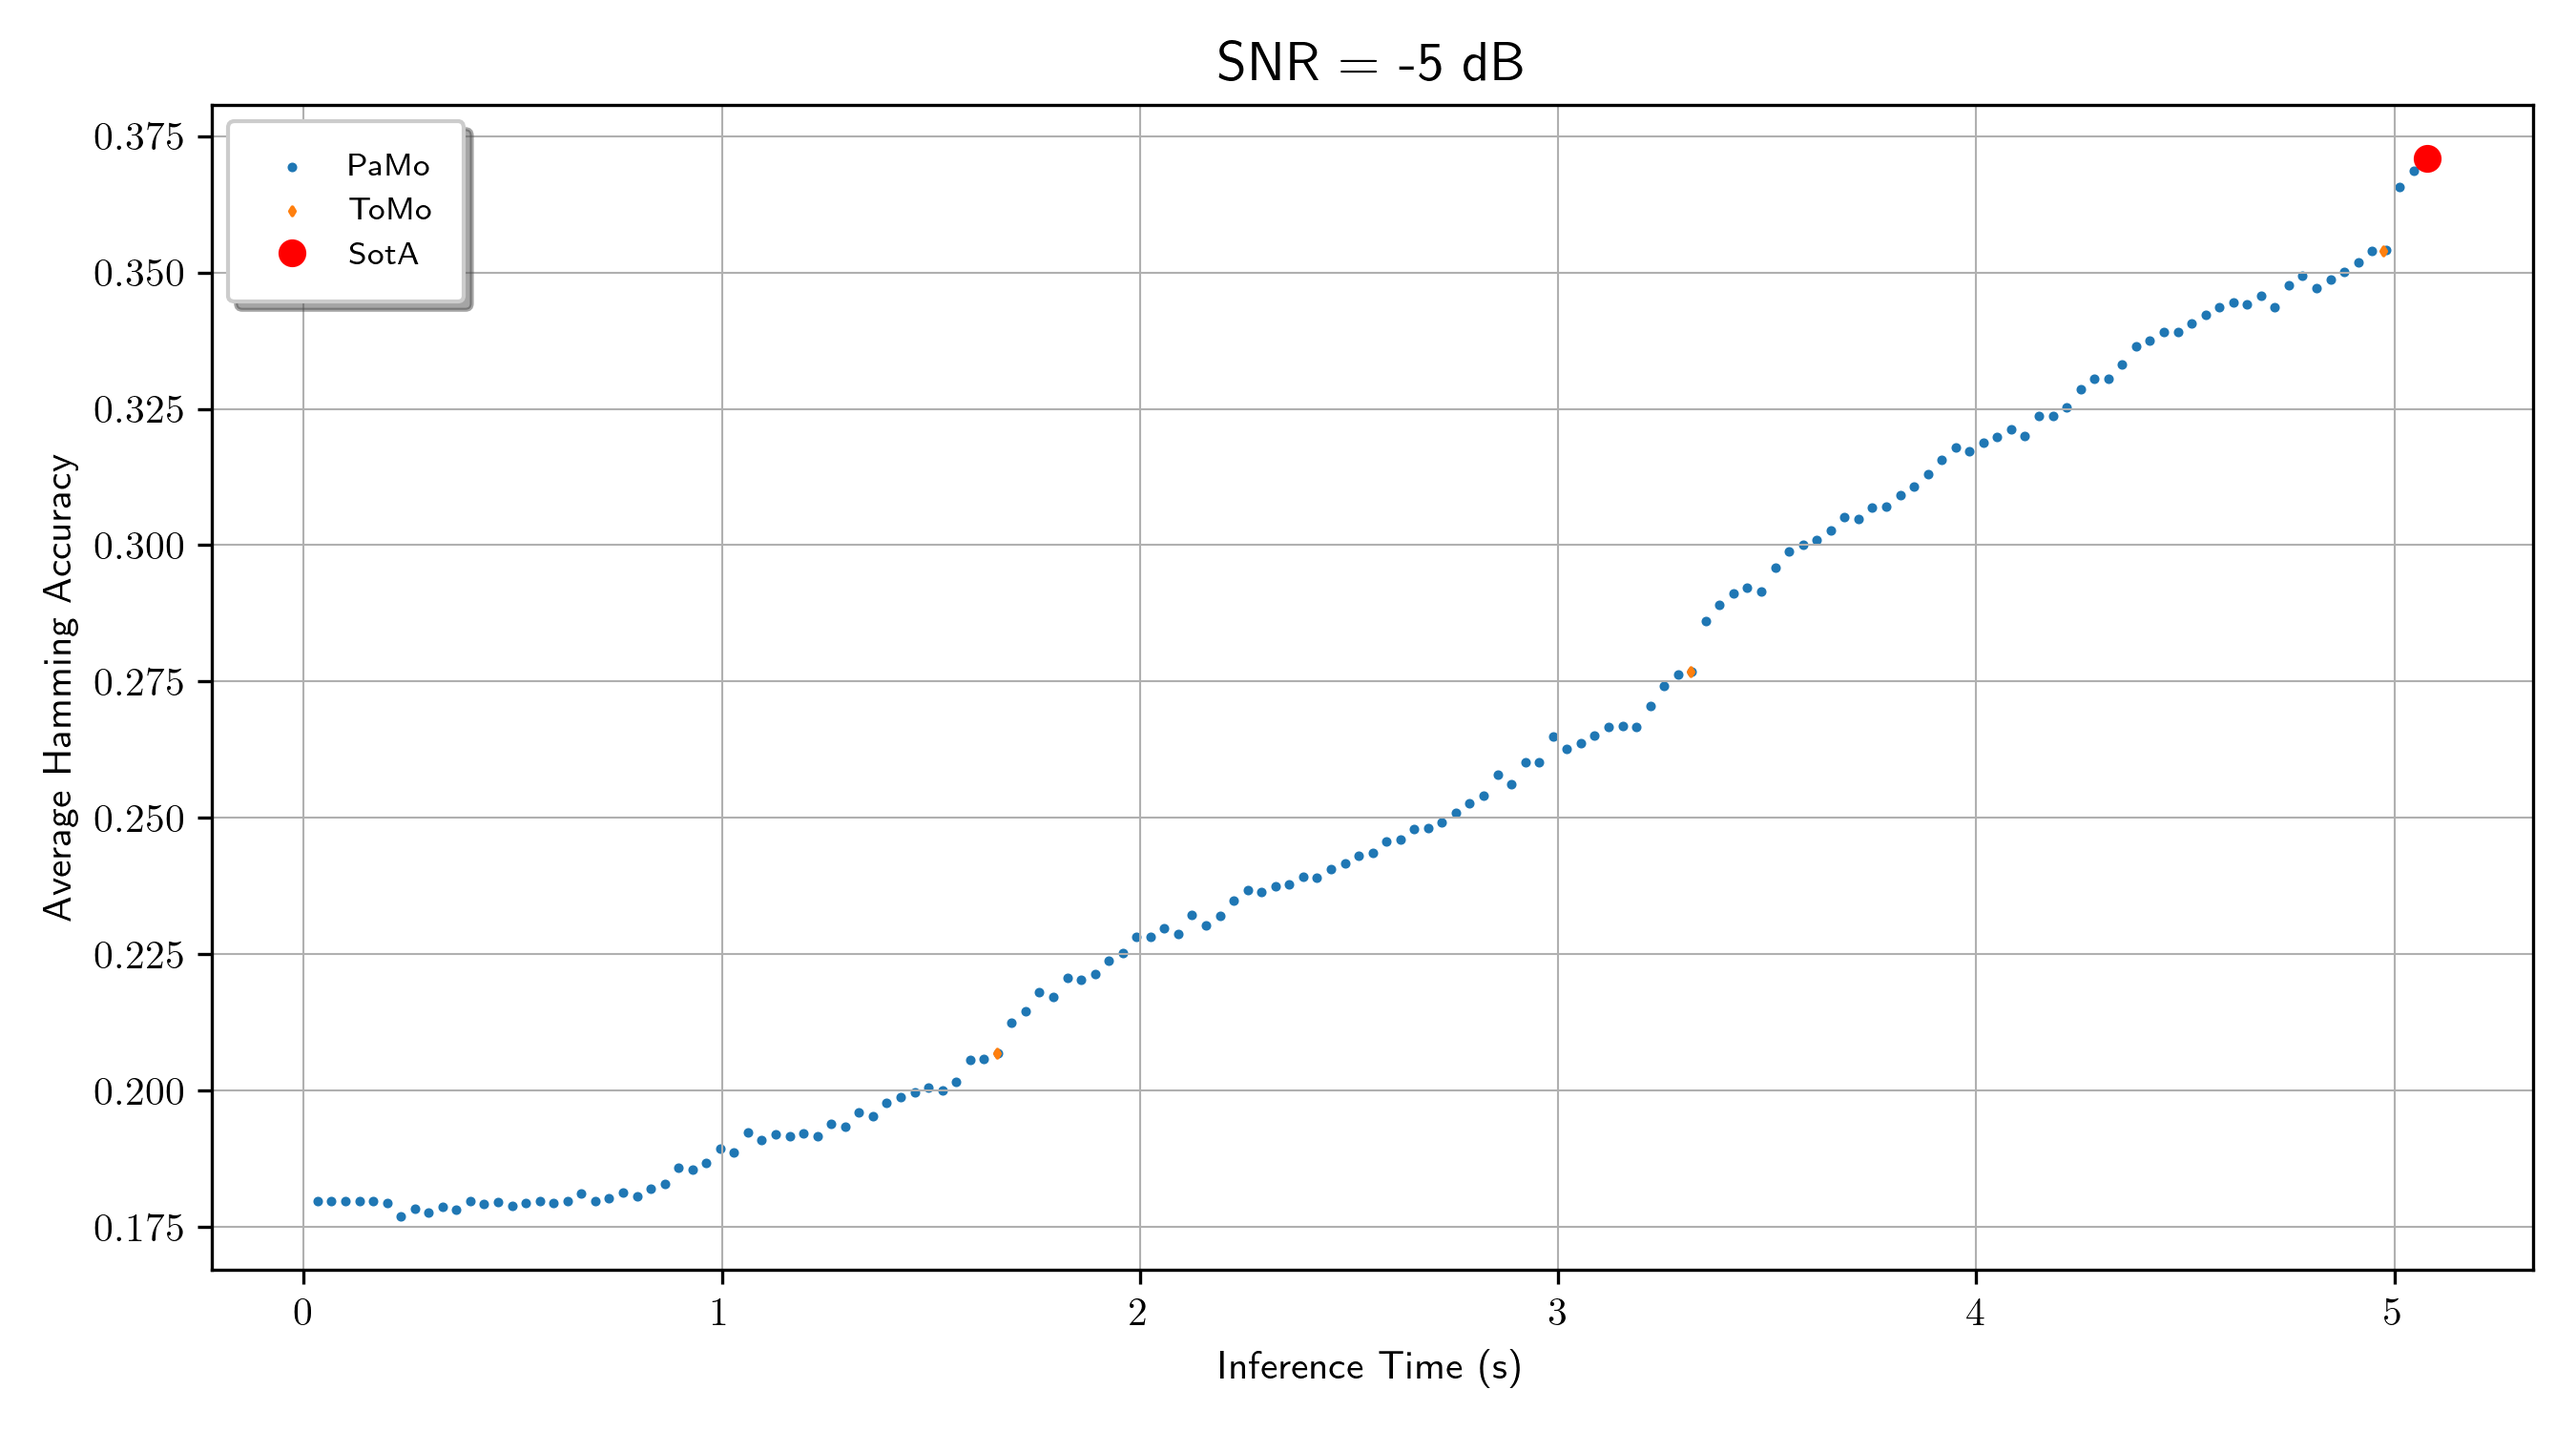
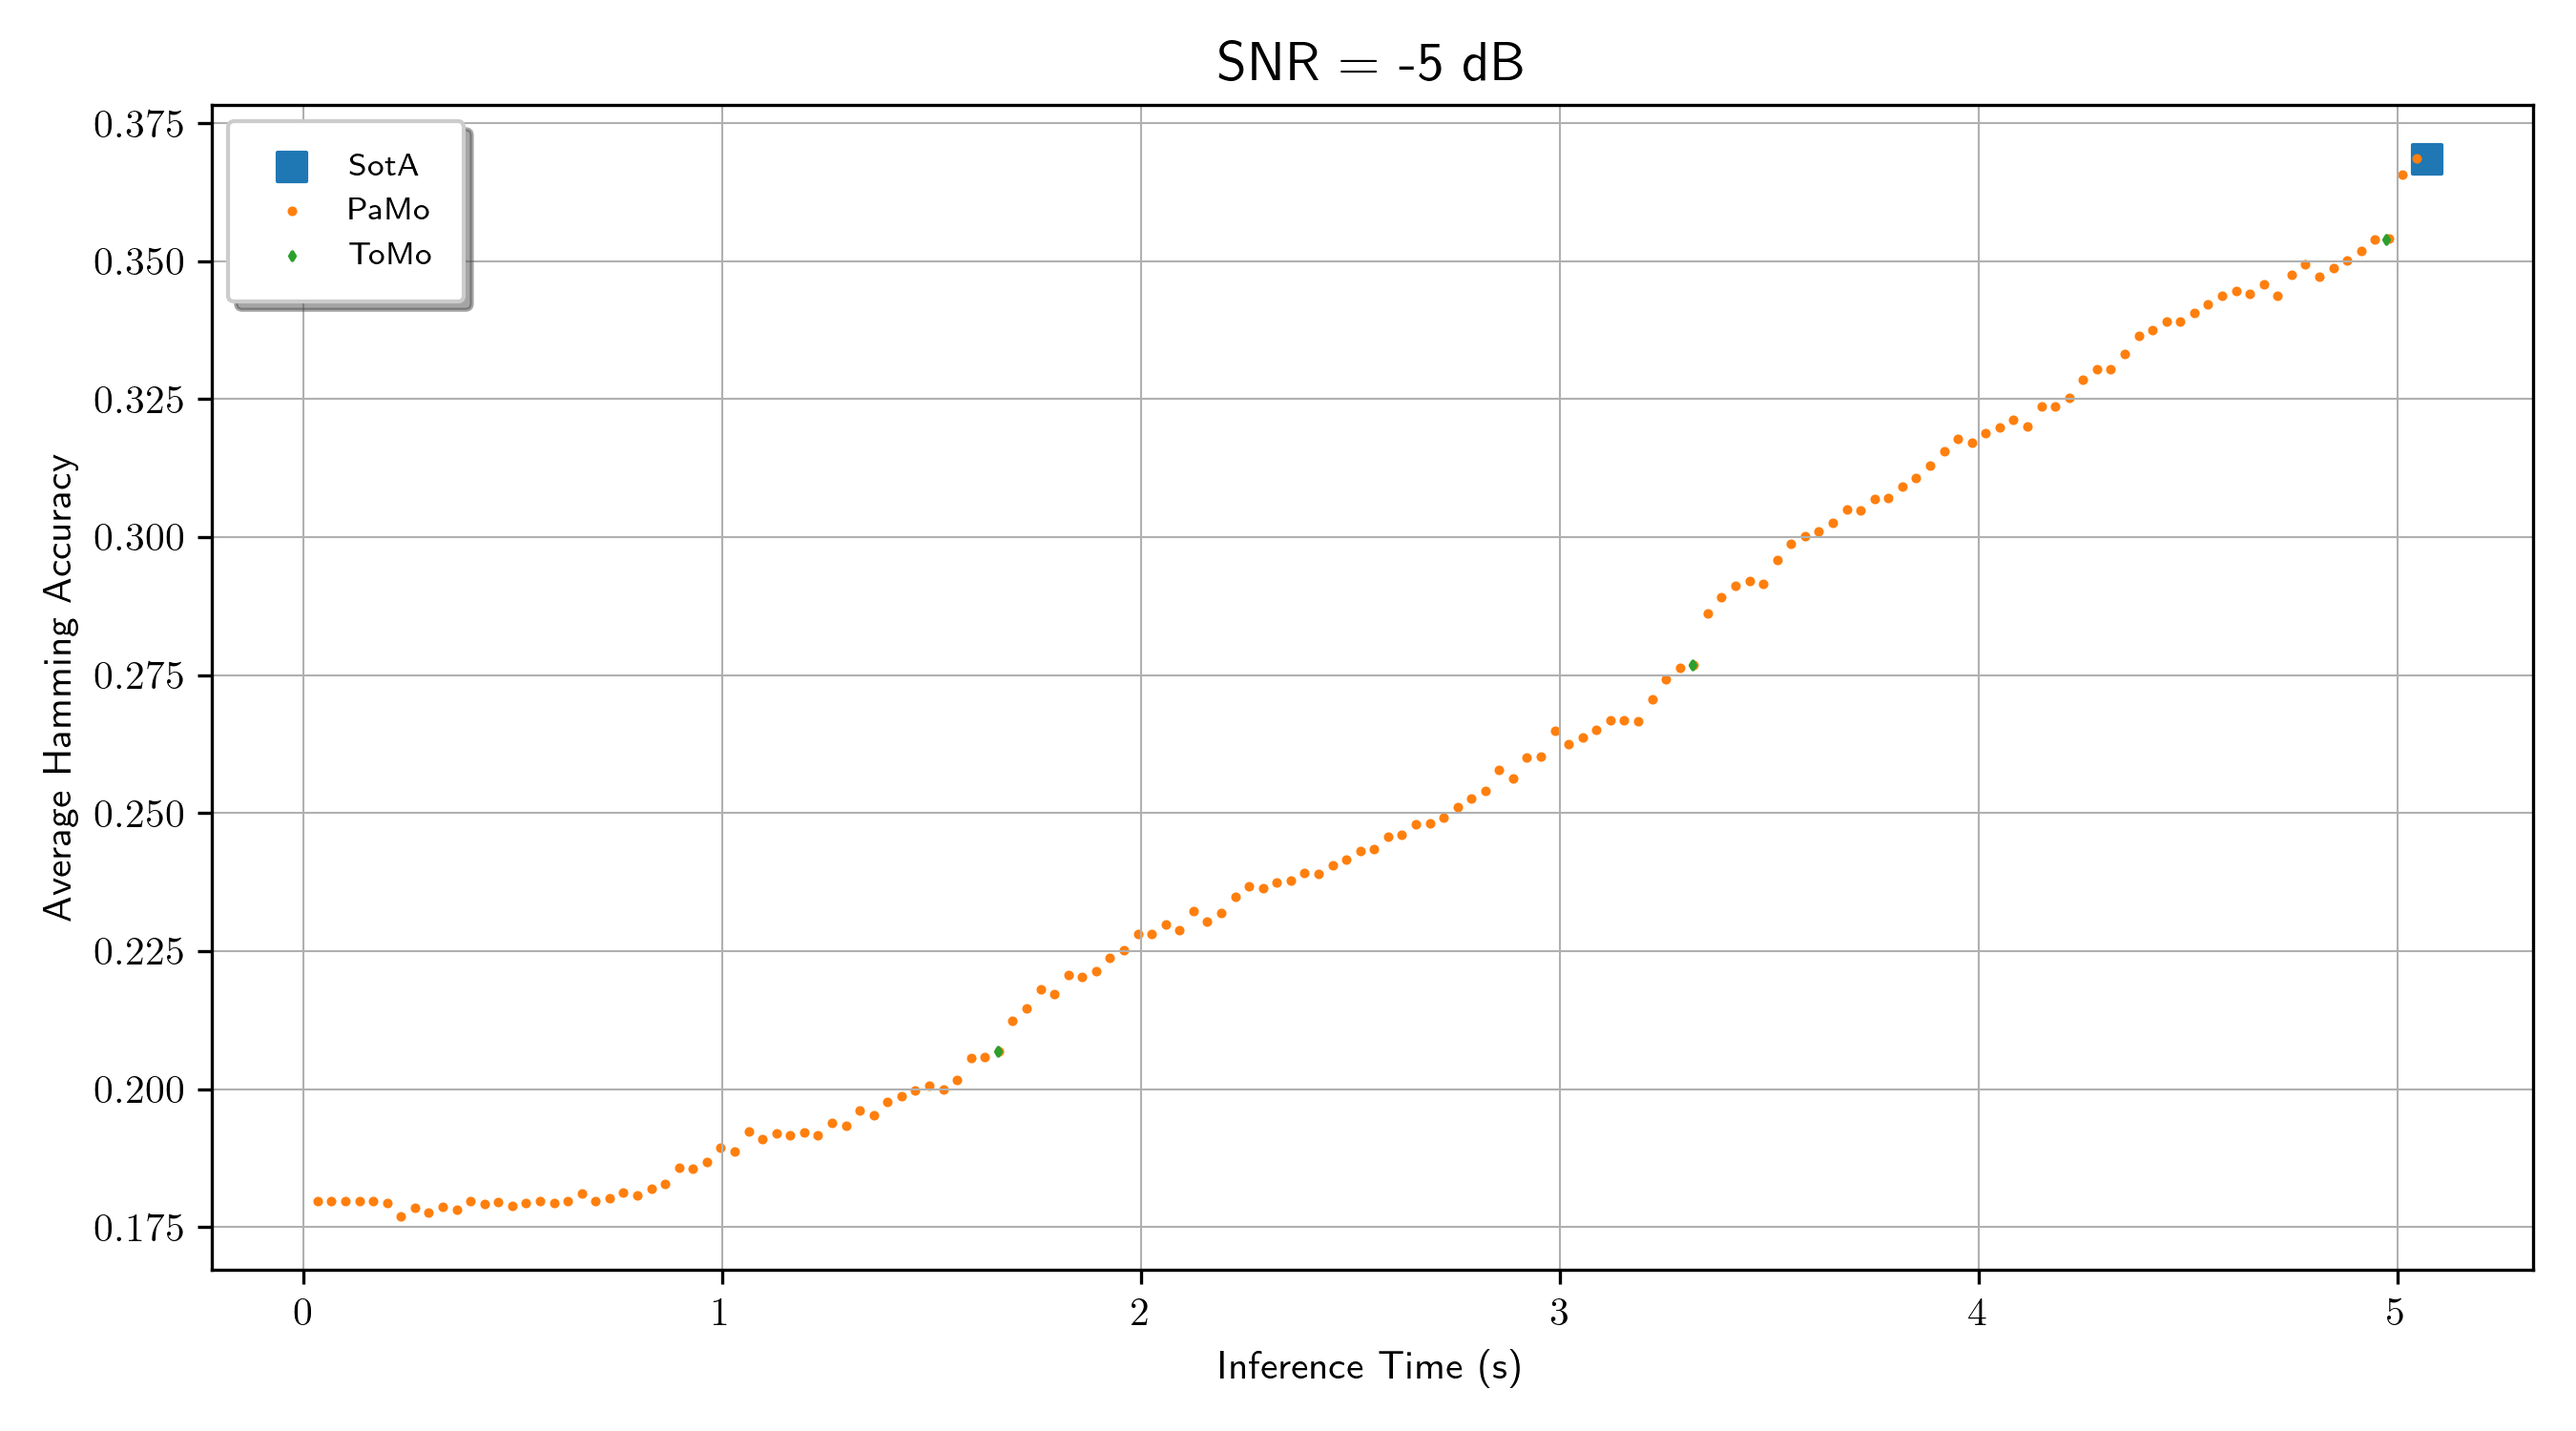
Updating code for public repository.

diff --git a/plotting_per_snr.py b/plotting_per_snr.py
@@ -81,14 +81,17 @@ if __name__ == "__main__":
         
         # Compute statistics
         stats = compute_statistics(data)
-
-        # Define time axis in seconds
-        windows = np.arange(1, num_windows+1)
-        t_seconds = windows * WINDOW_DURATION 
-        t_seconds = np.array(t_seconds, dtype=float)
-
-        x_data = t_seconds
-        y_data = stats['avg_hamming_acc'][:num_windows]
+        
+        # Define axes in seconds
+        if variant == 'SotA':
+            x_data = WINDOW_DURATION
+            y_data = stats['avg_hamming_acc'][-1]  # Single point
+        else:
+            windows = np.arange(1, num_windows+1)
+            t_seconds = windows * WINDOW_DURATION 
+            t_seconds = np.array(t_seconds, dtype=float)
+            x_data = t_seconds
+            y_data = stats['avg_hamming_acc'][:num_windows]
 
         # Plot average hamming accuracy vs time
         label = rf"{variant}"
@@ -98,18 +101,23 @@ if __name__ == "__main__":
         else:
             marker_style = 'd'
 
-        plt.scatter(x_data[:-1], y_data[:-1], marker=marker_style, s=2, label=label)
+        if variant == 'SotA':
+            plt.scatter(x_data, y_data, marker='s', s=50, label=label)
+        else:   
+            plt.scatter(x_data[:-1], y_data[:-1], marker=marker_style, s=2, label=label)
 
-        # Convert coordinates to TikZ format suitable for \addplot coordinates {...}
-        tikz_coords = " ".join([f"({x:.6f},{y:.6f})" for x, y in zip(x_data[:-1], y_data[:-1])])
+        if variant == 'SotA':
+            # Convert coordinates to TikZ format suitable for \addplot coordinates {...}
+            tikz_coords = " ".join(f"({x_data:.4f},{y_data:.4f})")
+        else:
+            tikz_coords = " ".join([f"({x:.4f},{y:.4f})" for x, y in zip(x_data[:-1], y_data[:-1])]) 
+
         filename = os.path.join(TIKZ_COORDS_PATH, f"{variant}_SNR_{args.snr_dB}.txt")
         
         with open(filename, "w") as f:
             f.write(tikz_coords)
 
         print(f"Saved TikZ coordinates to {filename}")
-
-    plt.plot(sota_pamo[0], sota_pamo[1], 'ro', label='SotA')
 
     plt.title(r'SNR = ' + f'{args.snr_dB} dB', fontsize=14)
 
